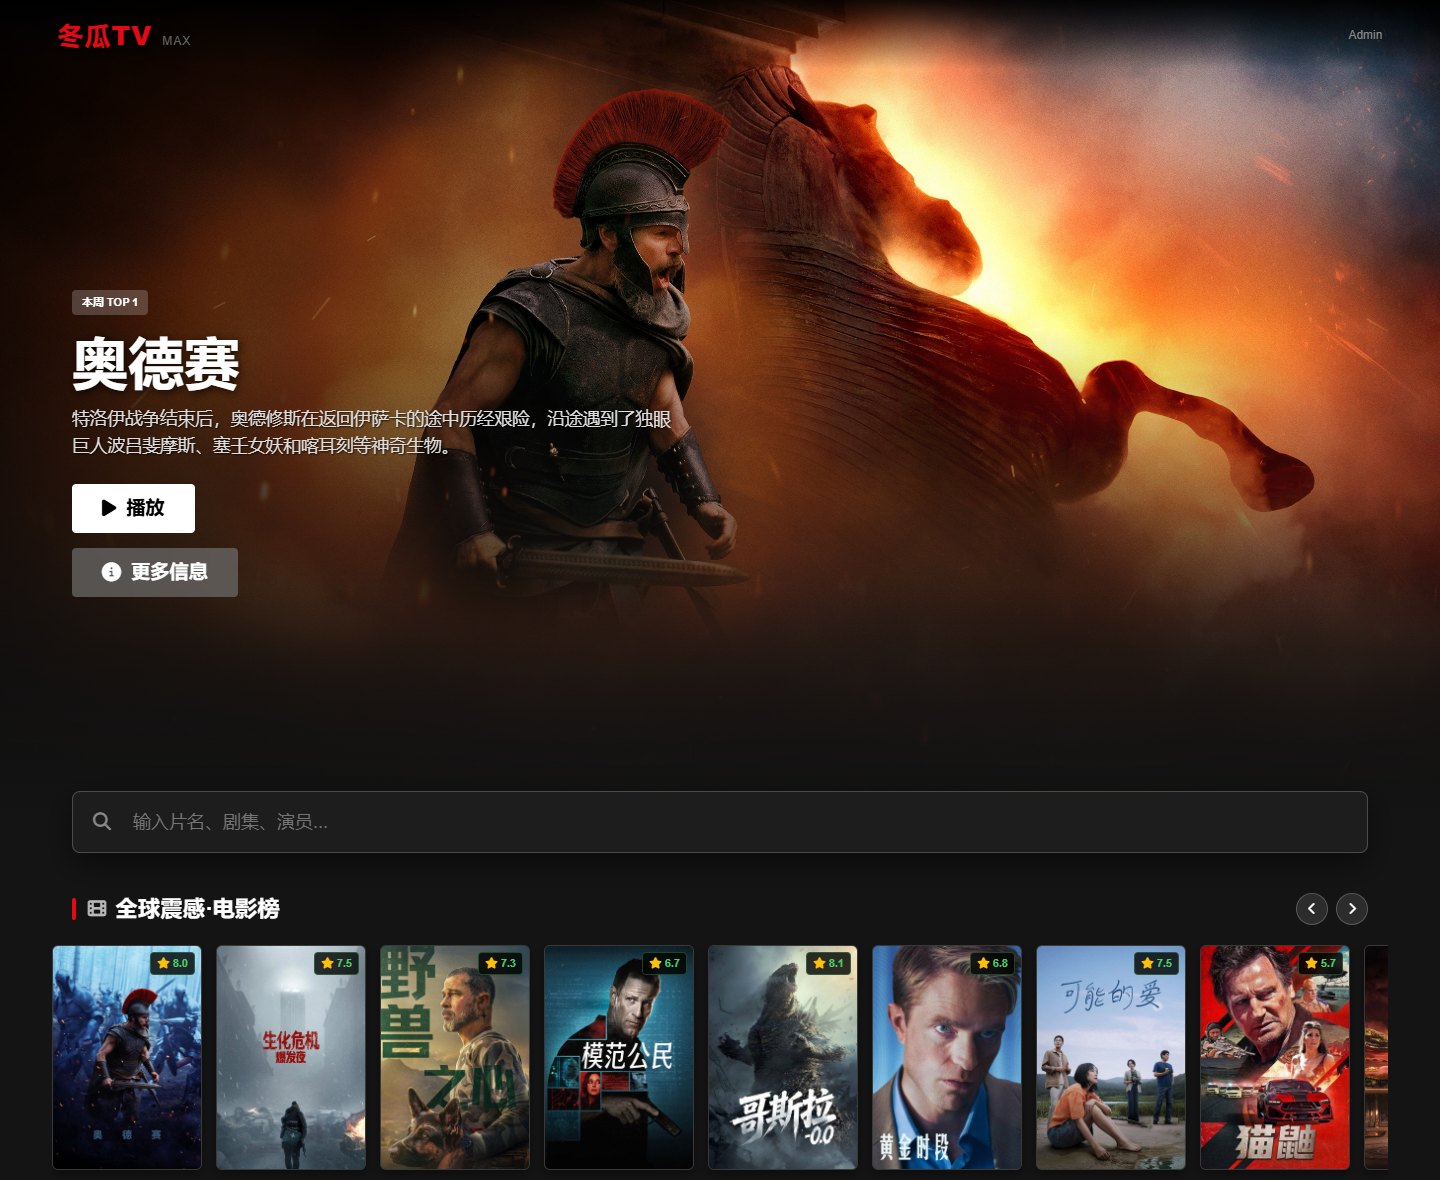
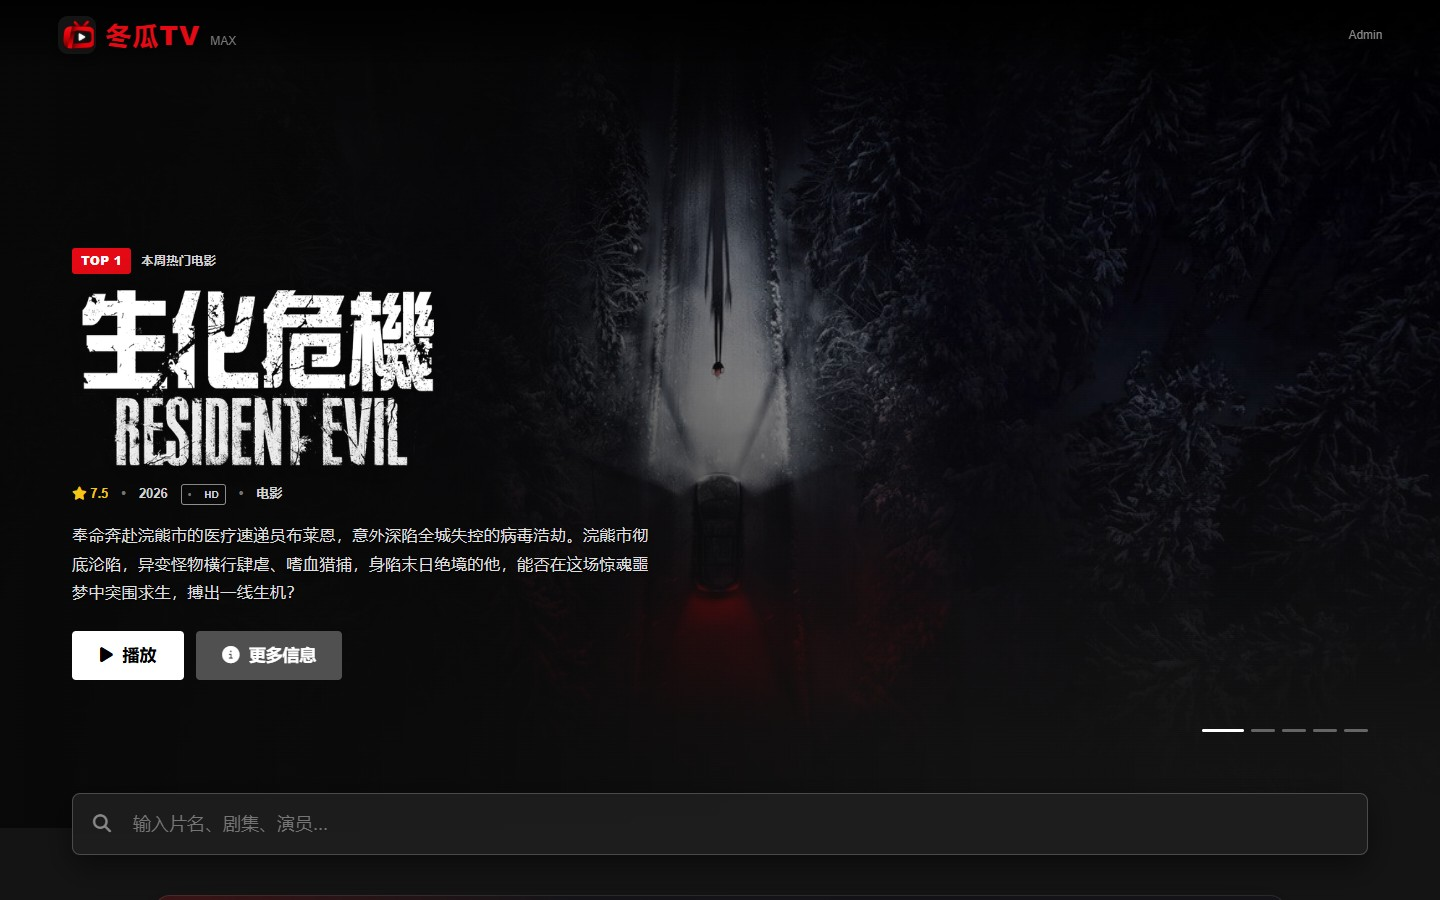
docs: refresh screenshots and artwork guide

diff --git a/docs/index.html b/docs/index.html
@@ -50,19 +50,23 @@
 
         <section id="preview">
             <h2>界面预览</h2>
-            <p>截图来自实际运行的 Docker 测试实例。仓库与正式版不包含任何采集站地址，后台截图使用空白示例数据。</p>
+            <p>截图来自正式运行的 Docker 实例。首页会按屏幕宽度选择横版剧照或竖版海报，详情页使用大背景、海报缩略图和 TMDb 透明 Logo。</p>
             <div class="preview-grid">
                 <figure class="preview-card wide">
                     <a href="assets/screenshots/home-tmdb.jpg" target="_blank" rel="noopener"><img src="assets/screenshots/home-tmdb.jpg" alt="冬瓜TV 首页 TMDb 推荐" loading="lazy"></a>
-                    <figcaption>首页：TMDb 热门、华语、日韩、港台、热映与高分推荐</figcaption>
+                    <figcaption>桌面首页：横版剧照、TMDb 透明 Logo 和自动轮播</figcaption>
                 </figure>
                 <figure class="preview-card">
                     <a href="assets/screenshots/tmdb-detail.jpg" target="_blank" rel="noopener"><img src="assets/screenshots/tmdb-detail.jpg" alt="TMDb 影视详情" loading="lazy"></a>
-                    <figcaption>详情：演员、主创、分级、关键词、预告与系列作品</figcaption>
+                    <figcaption>影视详情：大背景、海报缩略图、Logo、演员与关键词</figcaption>
                 </figure>
                 <figure class="preview-card">
                     <a href="assets/screenshots/tmdb-providers.jpg" target="_blank" rel="noopener"><img src="assets/screenshots/tmdb-providers.jpg" alt="TMDb 播放平台与相似推荐" loading="lazy"></a>
                     <figcaption>在哪儿看：按地区显示播放平台，并给出相似推荐</figcaption>
+                </figure>
+                <figure class="preview-card">
+                    <a href="assets/screenshots/mobile-tmdb.jpg" target="_blank" rel="noopener"><img src="assets/screenshots/mobile-tmdb.jpg" alt="移动端首页 TMDb" loading="lazy"></a>
+                    <figcaption>手机首页：自动切换无字竖版海报，避免横向图被硬裁</figcaption>
                 </figure>
                 <figure class="preview-card">
                     <a href="assets/screenshots/mobile-search-results.jpg" target="_blank" rel="noopener"><img src="assets/screenshots/mobile-search-results.jpg" alt="移动端搜索结果" loading="lazy"></a>
@@ -70,7 +74,7 @@
                 </figure>
                 <figure class="preview-card">
                     <a href="assets/screenshots/mobile-tmdb-detail.jpg" target="_blank" rel="noopener"><img src="assets/screenshots/mobile-tmdb-detail.jpg" alt="移动端 TMDb 详情" loading="lazy"></a>
-                    <figcaption>手机端详情：点搜索结果先看 TMDb 资料，再进入播放</figcaption>
+                    <figcaption>手机端详情：竖屏布局、海报缩略图与 Logo，先看资料再找片源</figcaption>
                 </figure>
                 <figure class="preview-card">
                     <a href="assets/screenshots/admin-sites.jpg" target="_blank" rel="noopener"><img src="assets/screenshots/admin-sites.jpg" alt="后台采集站管理" loading="lazy"></a>
@@ -369,6 +373,7 @@ PANSOU_URL=http://你的地址:8888</code></pre>
             <h3>首页和详情页已经用到的功能</h3>
             <ul>
                 <li><strong>首页推荐</strong>：本周趋势、华语剧集、日韩剧集、港台电影、正在热映、高分电影、今日播出。</li>
+                <li><strong>海报与 Logo</strong>：电脑和电视使用横版剧照，手机使用无字竖版海报；详情页叠加 TMDb 透明 Logo，没有 Logo 时自动回退文字标题。</li>
                 <li><strong>影视详情</strong>：评分、上映日期、片长、分级、类型、关键词、主创、演员和简介。</li>
                 <li><strong>系列作品</strong>：电影属于系列时，展示同系列其他影片，可直接继续查看。</li>
                 <li><strong>预告片</strong>：优先使用 YouTube 官方预告；新片没有预告时不会显示空按钮。</li>

diff --git a/README.md b/README.md
@@ -14,6 +14,14 @@
 - 教程：https://minerchu.github.io/dongguaTV/
 - 后台：`http://服务器IP:3000/admin.html`
 
+## 界面
+
+| 首页 | 详情 |
+| --- | --- |
+| ![首页](docs/assets/screenshots/home-tmdb.jpg) | ![详情](docs/assets/screenshots/tmdb-detail.jpg) |
+
+电脑和电视使用横版剧照，手机自动切换无字竖版海报。详情页由大背景、海报缩略图和 TMDb 透明 Logo 组成。
+
 ## 部署
 
 需要 Docker 20.10+ 和 Docker Compose v2。
